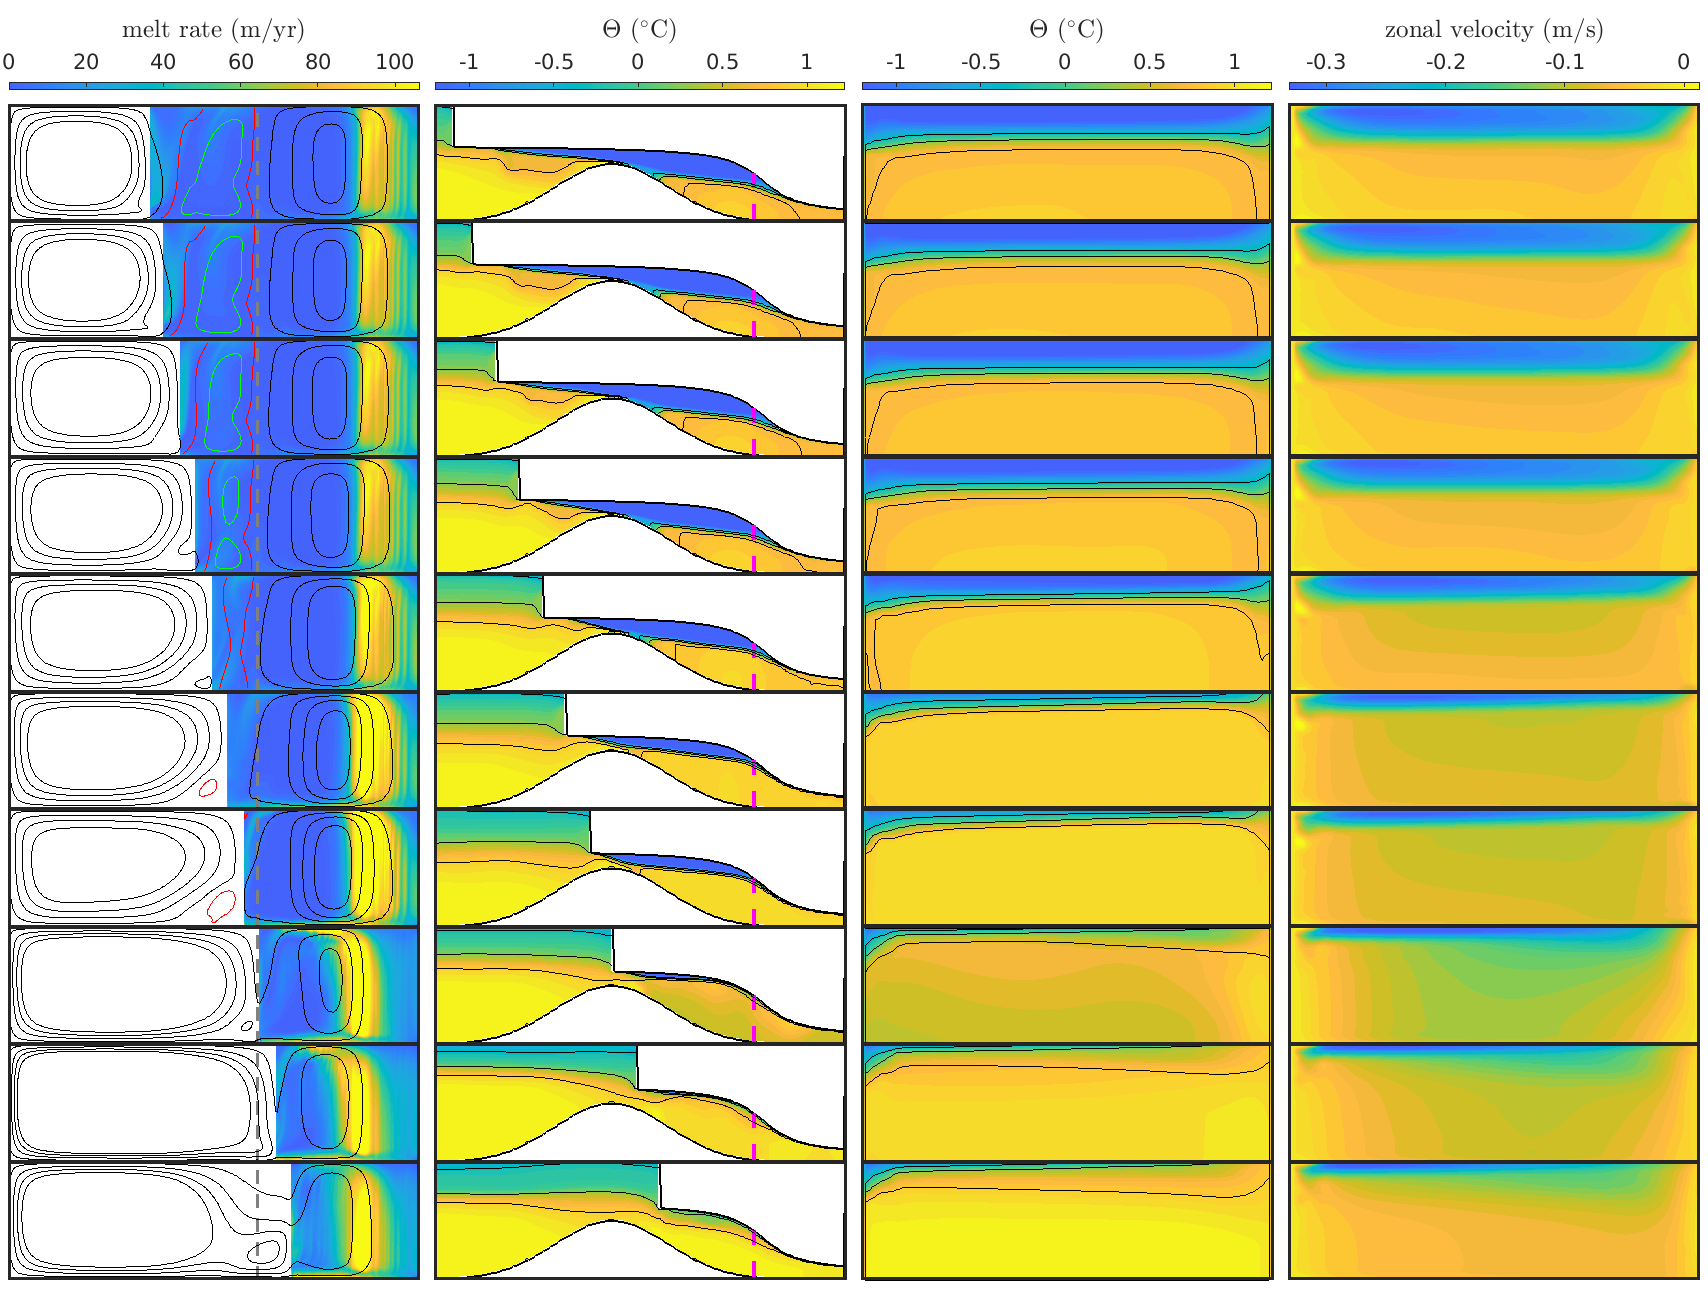
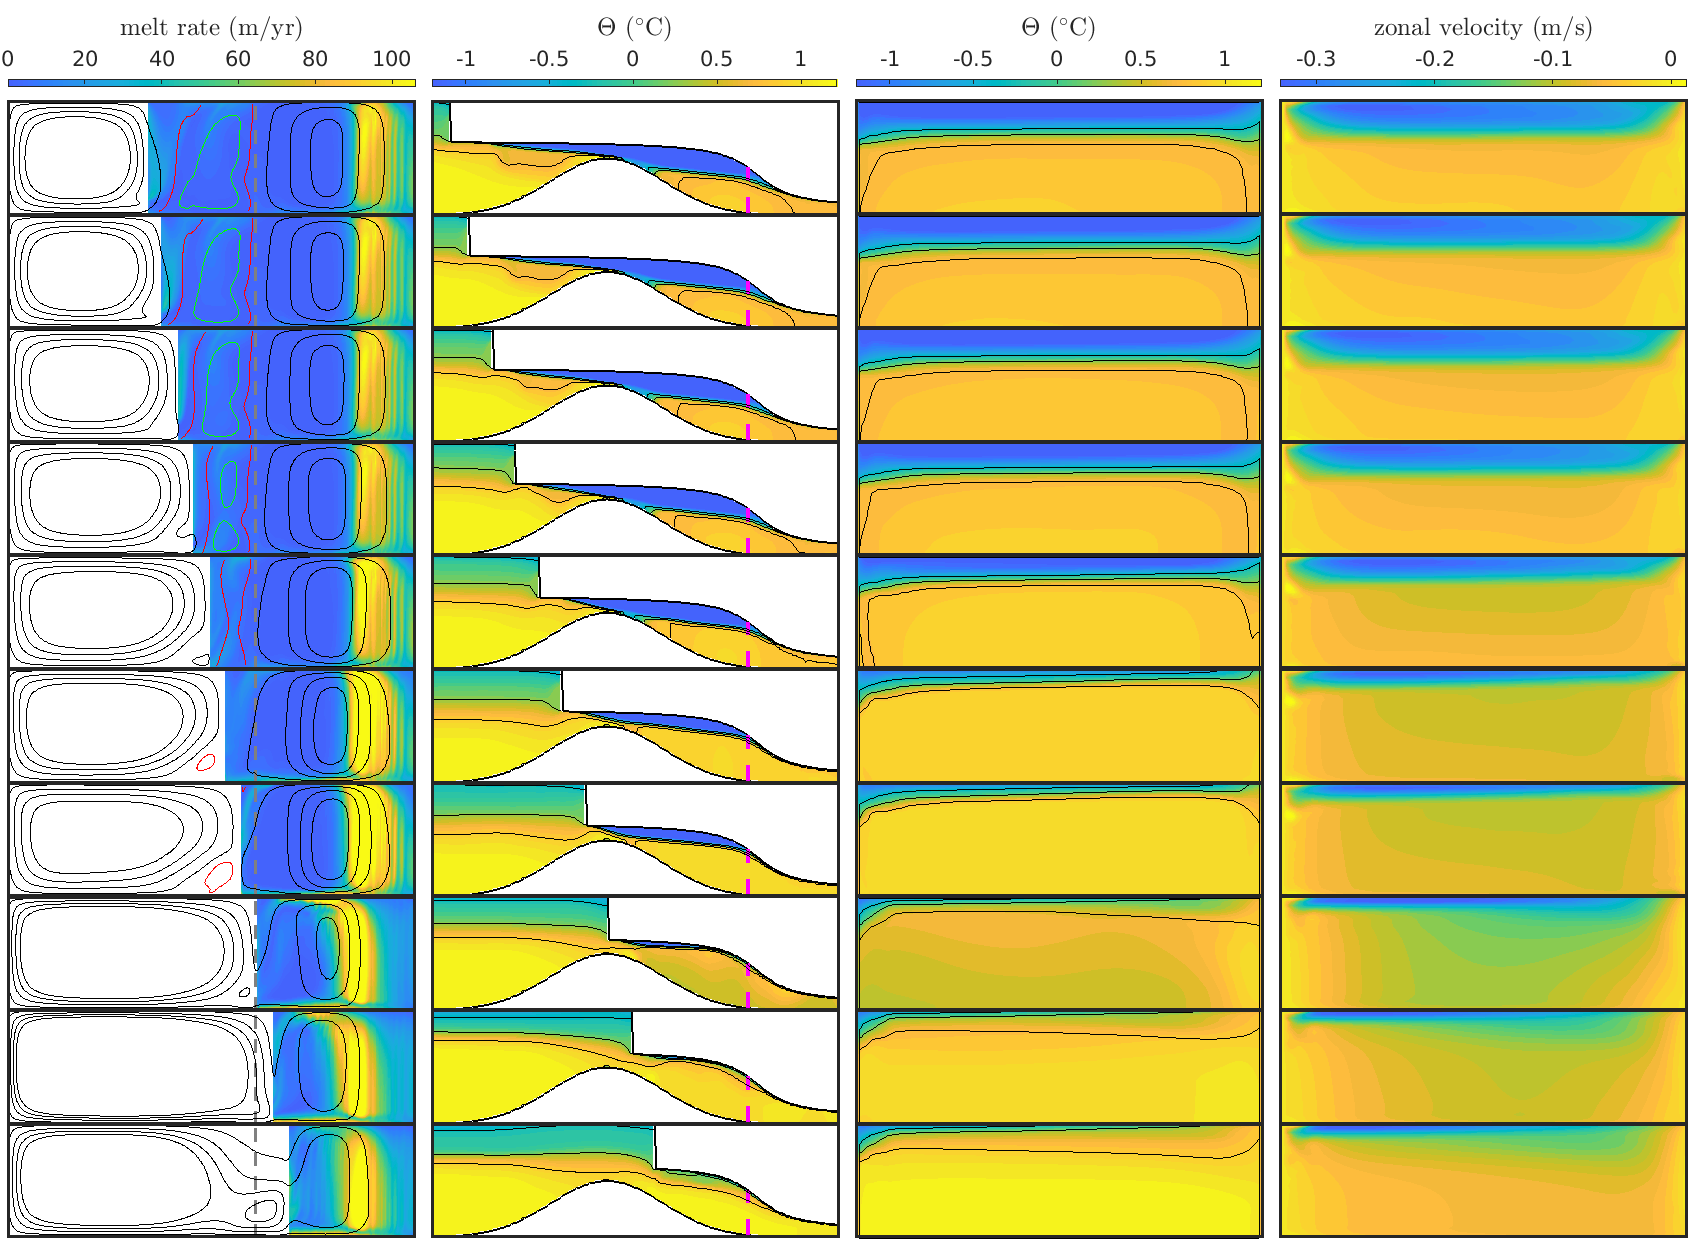
fig 5 add png

diff --git a/make_figures/make_figure5.m b/make_figures/make_figure5.m
@@ -381,8 +381,10 @@ end %end loop over runs
 %
 % Save flag
 %
+set(gcf, 'color', 'w')
 if save_flag
 %saveas(gcf, "plots/figure5", 'epsc')
+
 saveas(gcf, "plots/figure5.png")
 end
 
